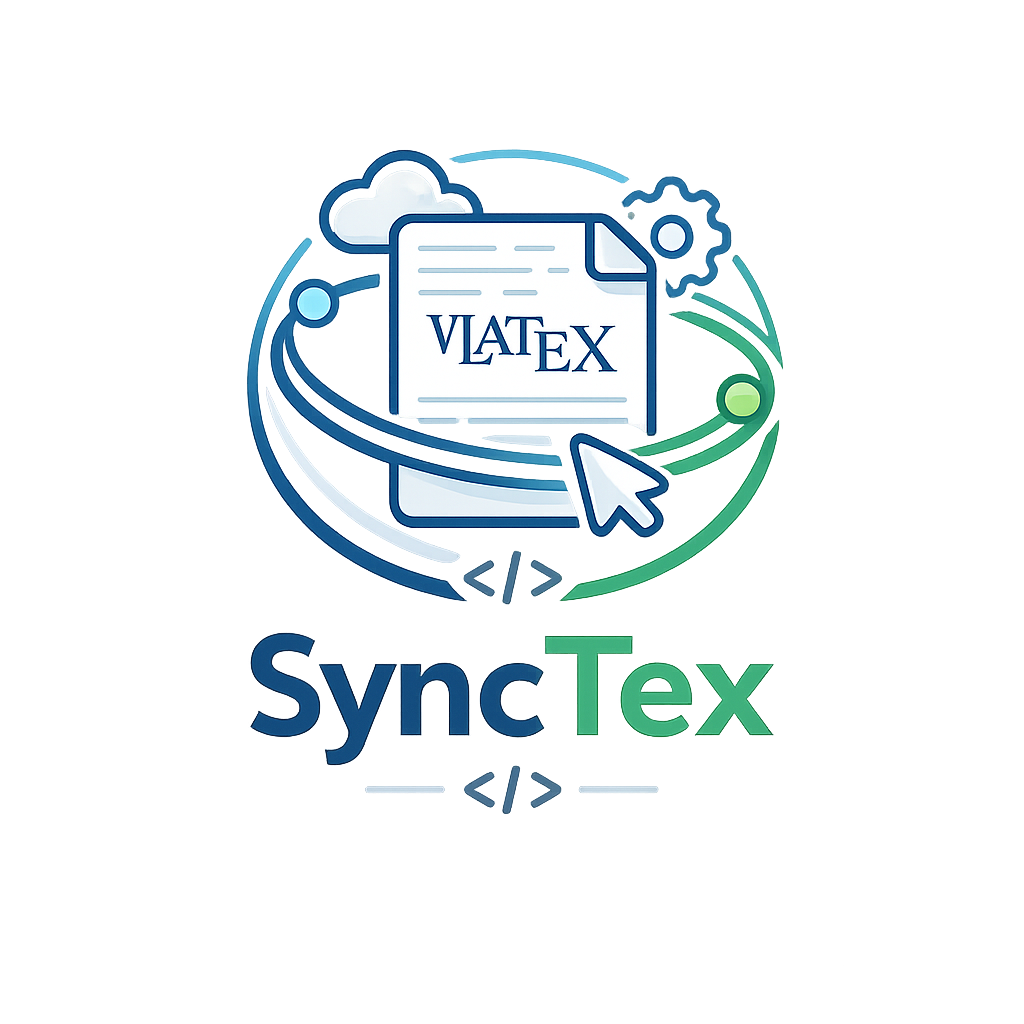
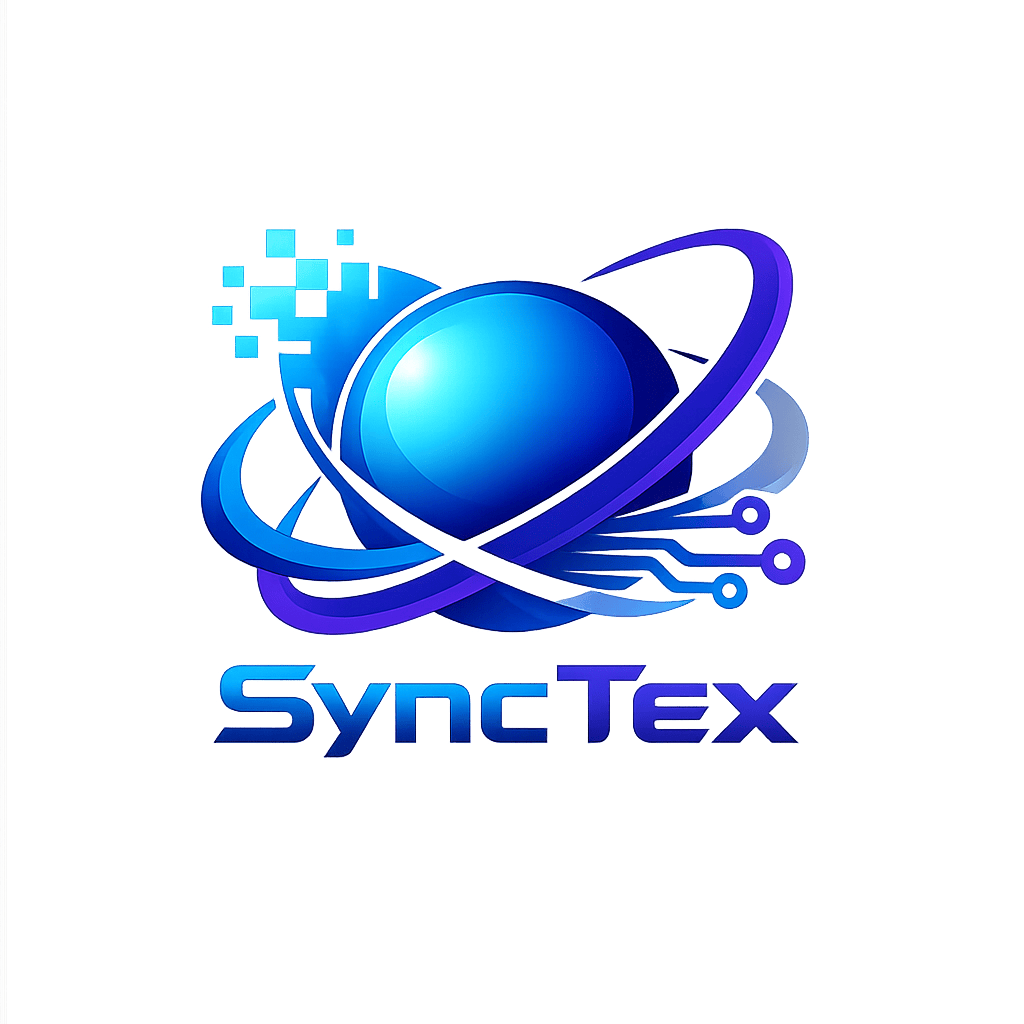
docs(readme): update readme to focus on public website usage
Readme was update to focus on usage of the publicly available sync-tex webpage. The design specifications were removed from the document, bar a high-level repository overview. Logo was updated to reflect new branding.

Changed region(s): [[0.1875, 0.125, 0.8125, 0.8125], [0.375, 0.125, 0.4062, 0.1562]]

diff --git a/README.md b/README.md
@@ -1,135 +1,183 @@
-# SyncTex
+# SyncTeX
 
-![SyncTex Logo](https://github.com/Ameb8/sync-tex/blob/master/docs/SyncTex.png)
+<img src="docs/SyncTex.png" alt="SyncTeX Logo" width="220" />
 
-SyncTex is a web-based LaTeX project editor. It allows users to store and save full-fledged projects, containing various file types and resources. Users can collaborate in real time, allowing teams to work together to produce clean and professional documentation. Get advice, ask questions, or generate content with built-in LLM assistant. Login with your GitHub or email and start editing now!
+SyncTeX is a browser-based collaborative LaTeX editor for creating, organizing,
+and editing LaTeX projects online.
 
-## Features
+The public service is available at [https://sync-tex.com](https://sync-tex.com).
 
-- Real-Time collaborative document editing
+## What It Does
 
-- Multi-file and directory project support
+- Edit LaTeX projects in the browser with a Monaco-based editor.
+- Organize projects with files, directories, and project metadata.
+- Collaborate in real time using Yjs document synchronization.
+- Share projects through collaborator roles and invite links.
+- Sign in with email/password, GitHub OAuth, or Google OAuth.
+- Use an optional AI assistant with streamed chat responses.
+- Store project content through MinIO-backed object storage.
+- Maintain legal and privacy documentation for the public service.
 
-- Gemini LLM assistant integration
+## Status
 
-- Collaborators with editor and read-only privileges
+SyncTeX is an active personal project and public web service. It is not currently
+maintained as a contributor-driven open-source project, and the repository is
+optimized for development, deployment, and operational clarity rather than a
+large external contributor workflow.
 
-- Login with GitHub or email/password
+The service is operated on a best-effort basis. Important documents should still
+be backed up outside the application.
 
-## Planned Features
+## Using The Web App
 
-- Project compilation to PDF
+1. Visit [sync-tex.com](https://sync-tex.com).
+2. Create an account or sign in with GitHub or Google.
+3. Create a project from the dashboard.
+4. Add LaTeX files and directories to the project.
+5. Open a file in the editor and edit it in the browser.
+6. Invite collaborators when a project should be shared.
+7. Use the assistant panel when AI help or document context is needed.
 
-- Login with Google
+The production service policies are kept in [docs/legal/privacy.md](docs/legal/privacy.md)
+and [docs/legal/tos.md](docs/legal/tos.md).
 
-- Additional LLM provider support
+## Architecture
 
-- Project source/bibliography management
+SyncTeX is split into focused services behind nginx. Each service owns its own
+runtime concerns and, where applicable, its own PostgreSQL database.
 
-- Auto-context for LLM assistant
+![SyncTeX Architecture](docs/sync-tex-architecture.png)
 
-## Running
+| Component | Stack | Responsibility |
+| --- | --- | --- |
+| `frontend/` | React, Vite, Monaco, Yjs | Browser UI, editor shell, project dashboard, collaboration panels |
+| `nginx/` | nginx | Static frontend serving, API gateway, WebSocket routing |
+| `users-service/` | Python, FastAPI, PostgreSQL | Accounts, OAuth, password auth, JWT issuance |
+| `projects-service/` | Go, Gin, PostgreSQL, sqlc | Project/file metadata, collaborators, invites, presigned object URLs |
+| `collab-service/` | Go, WebSocket, Yjs protocol relay | Real-time editing rooms and raw Yjs update broadcasting |
+| `file-data-service/` | Rust, tonic, yrs | Yjs compaction and plain-text export over gRPC |
+| `assistant-service/` | Python, FastAPI, PostgreSQL, pgvector | BYOK keys, chat history, SSE streaming, auto-context/RAG support |
+| `minio` | MinIO | Object storage for document snapshots, update logs, and exports |
 
-Prerequisites: Docker Compose for the service stack, Node.js/npm for the React frontend, and a populated `.env` file. Start from `.env.example`:
+### Design Notes
+
+- JWTs are issued by `users-service` and independently validated by backend
+  services.
+- Project metadata and object-storage access are owned by `projects-service`.
+- Collaborative editing uses Yjs; the collaboration relay forwards binary Yjs
+  frames rather than implementing a custom CRDT.
+- `file-data-service` owns document compaction and text export so other services
+  do not need to understand Yjs internals.
+- The assistant service keeps LLM keys, chat history, usage data, and
+  auto-context state separate from project metadata.
+- Presigned MinIO URLs are generated internally and rewritten for browser-facing
+  access at the public origin.
+
+## Repository Layout
+
+```text
+.
+|-- assistant-service/      # AI assistant, provider keys, chat, auto-context
+|-- collab-service/         # WebSocket/Yjs collaboration relay
+|-- docs/                   # Diagrams, legal docs, generated API references
+|-- file-data-service/      # Yjs compaction and text export service
+|-- frontend/               # React web application
+|-- nginx/                  # API gateway and production frontend image
+|-- projects-service/       # Project/file metadata and MinIO URL orchestration
+|-- proto/                  # Shared gRPC definitions
+|-- tests/                  # Service integration test harnesses
+|-- users-service/          # Authentication and user identity service
+|-- docker-compose.yml      # Base Compose stack
+|-- docker-compose.dev.yml  # Development overrides
+|-- docker-compose.prod.yml # Manual production overrides
+`-- docker-compose.swarm.yml
+```
+
+## Local Development
+
+Prerequisites:
+
+- Docker Compose
+- Node.js and npm for the Vite frontend dev server
+- A populated `.env` file based on `.env.example`
+
+Create the environment file:
 
 ```sh
 cp .env.example .env
 ```
 
-For production, replace all example secrets, database passwords, OAuth credentials, API keys, and public URLs before starting the stack.
+For local development, replace example secrets and set public origins in `.env`
+to match the local environment you are testing. OAuth sign-in also requires
+matching callback URLs in the GitHub and Google OAuth app configuration.
 
-### Development
-
-Development mode uses `docker-compose.yml` plus `docker-compose.dev.yml`. Backend services run in containers with reload/watch commands, while nginx proxies the frontend route to the local Vite dev server.
+Start the backend stack:
 
 ```sh
 make dev-build
 make dev-up
+```
 
+Start the frontend dev server:
+
+```sh
 cd frontend
 npm install
 npm run dev
 ```
 
-Open `http://localhost`. Useful dev endpoints are exposed locally: users service on `8001`, projects service on `8003`, assistant service on `8000`, file-data gRPC on `50051`, MinIO API on `9000`, and MinIO console on `9001`.
+Open `http://localhost`.
 
-Common commands:
+Useful development commands:
 
 ```sh
-make dev-logs                 # follow all service logs
-make dev-logs SERVICE=minio   # follow one service
-make dev-ps                   # list containers
-make dev-down                 # stop and remove dev containers
-make dev-reset                # also remove dev volumes
+make dev-logs
+make dev-logs SERVICE=projects-service
+make dev-ps
+make dev-down
+make dev-reset
 ```
 
-### Production
+Common local endpoints:
 
-Production Compose mode uses `docker-compose.yml` plus `docker-compose.prod.yml`. It builds production service images, packages the Vite frontend into the nginx gateway image, and starts the Cloudflare tunnel sidecar.
+| Endpoint | Purpose |
+| --- | --- |
+| `http://localhost` | nginx gateway |
+| `http://localhost:8001` | users service |
+| `http://localhost:8003` | projects service |
+| `http://localhost:8000` | assistant service |
+| `localhost:50051` | file-data gRPC service |
+| `http://localhost:9000` | MinIO API |
+| `http://localhost:9001` | MinIO console |
+
+## Deployment
+
+The production path uses Docker images, Docker Swarm, a self-hosted GitHub
+Actions runner, and a Cloudflare Tunnel sidecar. The deployment runbook is kept
+in [docs/deployment-runbook.md](docs/deployment-runbook.md).
+
+Manual production Compose commands are still available:
 
 ```sh
 make prod-build
 make prod-up
-```
-
-The continuous deployment path uses GHCR images and the Swarm stack in `docker-compose.swarm.yml`; see `docs/deployment-runbook.md`. Keep `docker-compose.prod.yml` as the legacy/manual production path while Swarm is being validated.
-
-Set `FRONTEND_URL` and `EXTERNAL_URL` in `.env` to the public origin clients should use. The app is served by nginx on port `80`; production object URLs and OAuth redirects depend on those external URL values.
-
-Common commands:
-
-```sh
 make prod-logs
-make prod-ps
 make prod-down
-make prod-reset    # removes production containers and volumes
 ```
 
+For production, all example secrets, database passwords, OAuth credentials,
+MinIO credentials, encryption keys, and public URL values must be replaced before
+starting the stack.
 
-# Software Design
+## API And Service References
 
-SyncTex is built on a microservice architecture to support independent scaling and separation of concerns. 
+- [Projects service OpenAPI reference](docs/projects-service/openapi.yaml)
+- [Generated projects service HTML reference](docs/projects-service-api.html)
+- [Collaboration service AsyncAPI reference](docs/collab-service/asyncapi.yaml)
+- [Users service database diagram](docs/users-service/users-db-erd.png)
+- [Projects service database diagram](docs/projects-service/projects-db-erd.png)
 
-![Architecture Diagram](https://github.com/Ameb8/sync-tex/blob/master/docs/sync-tex-architecture.png)
+## License
 
-## Webpage
-
-## Projects-Service
-
-Projects-Service is responsible for managing user's projects and files. The system stores all projects and their file structures and provide access through a Rest-API. 
-
-
-### Projects-Service Rest-API
-
-Projects-Service provides a set of CRUD operations allowing for easy access and management of project-centric resources by both clients and other backend services. Project-Service's API schema can be [found here](https://ameb8.github.io/sync-tex/projects-service-api.html). 
-
-
-### Projects-Service Database
-
-![Projects-Service-DB ERD](https://github.com/Ameb8/sync-tex/blob/master/docs/projects-service/projects-db-erd.png)
-
-### Projects-Service File Store
-
-## Collab-Service
-
-Collab-Service enables real-time collaborative editing between users, allowing multiple users to edit a document simultaneously. A user connects by utilizing two query parameters, the primary key fo the file being edited and the user's authentication token. This allows Collab-Service to ensure users can only edit documents for which they have permission. The Yjs library allows straightforward implementation of CRDT-style collaborative editing. Thus, SyncTex does not implement its' own CRDT system, instead utilizing a highly reliable and performant existing system.
-
-### Collab-Service Websocket Server
-
-Collab-Service primarily uses the websocket protocol to enable collaborative editing. The server stores an in-memory map of files to connected users. When an edit is received by a server, it is broadcasted to all other users connected to that document. The payload of each update consists of Yjs's binary CRDT protocol. Thus, Collab-Service does not understand, parse, or analyze any file updates, simply broadcasting them to other users.
-
-In order to ensure consistent states between users, Collab-Service provides an initial seed state for connecting users. When the first user connects to a document, Collab-Service fetches the Yjs-formatted state of a document. This is done by fetching a presigned download URL from Projects-Service, then downloading the file. It is the responsibility of Projects-Service to ensure the download URL links to the Yjs binary version of the document. This document is sent as-is to the first connecting user. However, as new users join, the initial document state no longer suffices, as it has been edited. To handle this, Collab-Service keeps a log of all edits applied to the document. These updates can then be sent to connecting users, ensuring they have the most up-to-date version. When all users disconnect on a given document, these changes will be uploaded to filestore and evicted from Collab-Service memory. 
-
-In order to avoid saving collisions and mismatching document states, clients do not save documents when editing collaboratively. Instead, Collab-Service is responsible for document persistence. Collab-Service utilizes configurable debounce saving, as well as ensuring a final upload when all users disconnect from a given document. The saved document will be in Yjs-binary form. It may be compacted into a more memory-efficient format, but this is not Collab-Service's responsibility. 
-
-Collab-Service ensures users have write access to a document before joining. This is done by first collecting their authentication token from query parameters. Next, a http request is made to projects-service, specifying whether the given user is allowed to edit the document. If write-access is not allowed, the websocket connection is dropped. 
-
-
-## Users-Service
-
-Users-Service allows the system to authenticate users, as well as storing and managing user-centric data. It supports password-based accounts, as well as OAuth2-based login with GitHub and Google.
-
-Users-Service utilizes JWT tokens for authentication. When a user logs in, they are provided with a JWT tokens, containing a unique identifier for that user. Thus, once a user is logged in, additional calls to Users-Service are not required. Furthermore, other services are able to authenticate and identify a user independently. While they are not able to access the full user data without calling Users-Service, they are able to store and access their own data relative to individual users. 
-
-### Users-Service Rest-API
-### Users-Service Database
+No open-source license is currently provided. Unless a license is added, all
+rights are reserved by the project owner.
